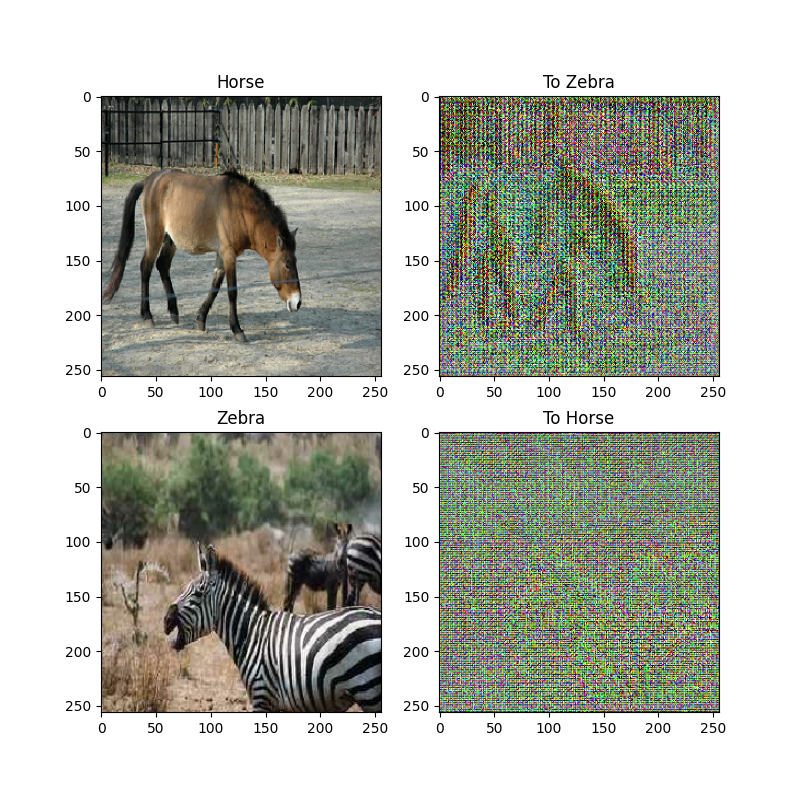
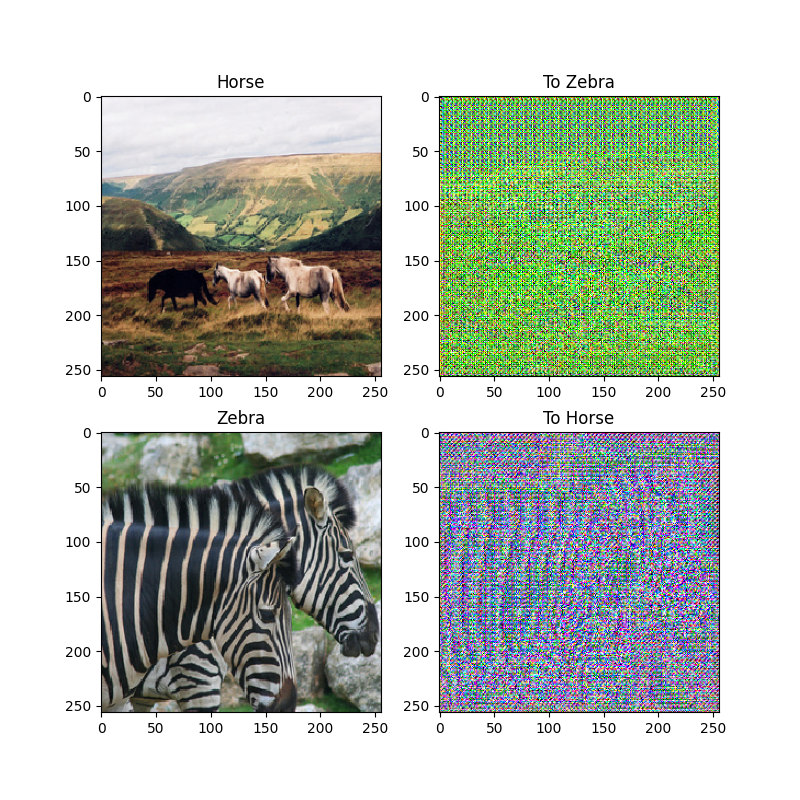
tested cycle gan with 45 epochs

diff --git a/gan/cycleGan/CycleGan.py b/gan/cycleGan/CycleGan.py
@@ -15,7 +15,7 @@ IMG_HEIGHT = 256
 OUTPUT_CHANNELS = 3
 
 LAMBDA = 10
-EPOCHS = 10
+EPOCHS = 100
 
 dataset, metadata = tfds.load('cycle_gan/horse2zebra',
                               with_info=True, as_supervised=True)
@@ -136,7 +136,7 @@ def identity_loss(real_image, same_image):
   return LAMBDA * 0.5 * loss
 
 
-def generate_images(model, test_input):
+def generate_images(model, test_input, name):
   prediction = model(test_input)
 
   plt.figure(figsize=(12, 12))
@@ -150,7 +150,8 @@ def generate_images(model, test_input):
     # getting the pixel values between [0, 1] to plot it.
     plt.imshow(display_list[i] * 0.5 + 0.5)
     plt.axis('off')
-  plt.show()
+  plt.savefig(f"{name}.png")
+  plt.clf()
 
 @tf.function
 def train_step(real_x, real_y):
@@ -227,13 +228,14 @@ for epoch in range(EPOCHS):
  
   # Using a consistent image (sample_horse) so that the progress of the model
   # is clearly visible.
-  generate_images(generator_g, sample_horse)
+  generate_images(generator_g, sample_horse, f"epoch_{epoch}")
   print ('Time taken for epoch {} is {} sec\n'.format(epoch + 1,
                                                       time.time()-start))
 
 # Run the trained model on the test dataset
+i=1
 for inp in test_horses.take(5):
-  generate_images(generator_g, inp)
-
+  generate_images(generator_g, inp, f"example_{i}")
+  i+=1
 
 
